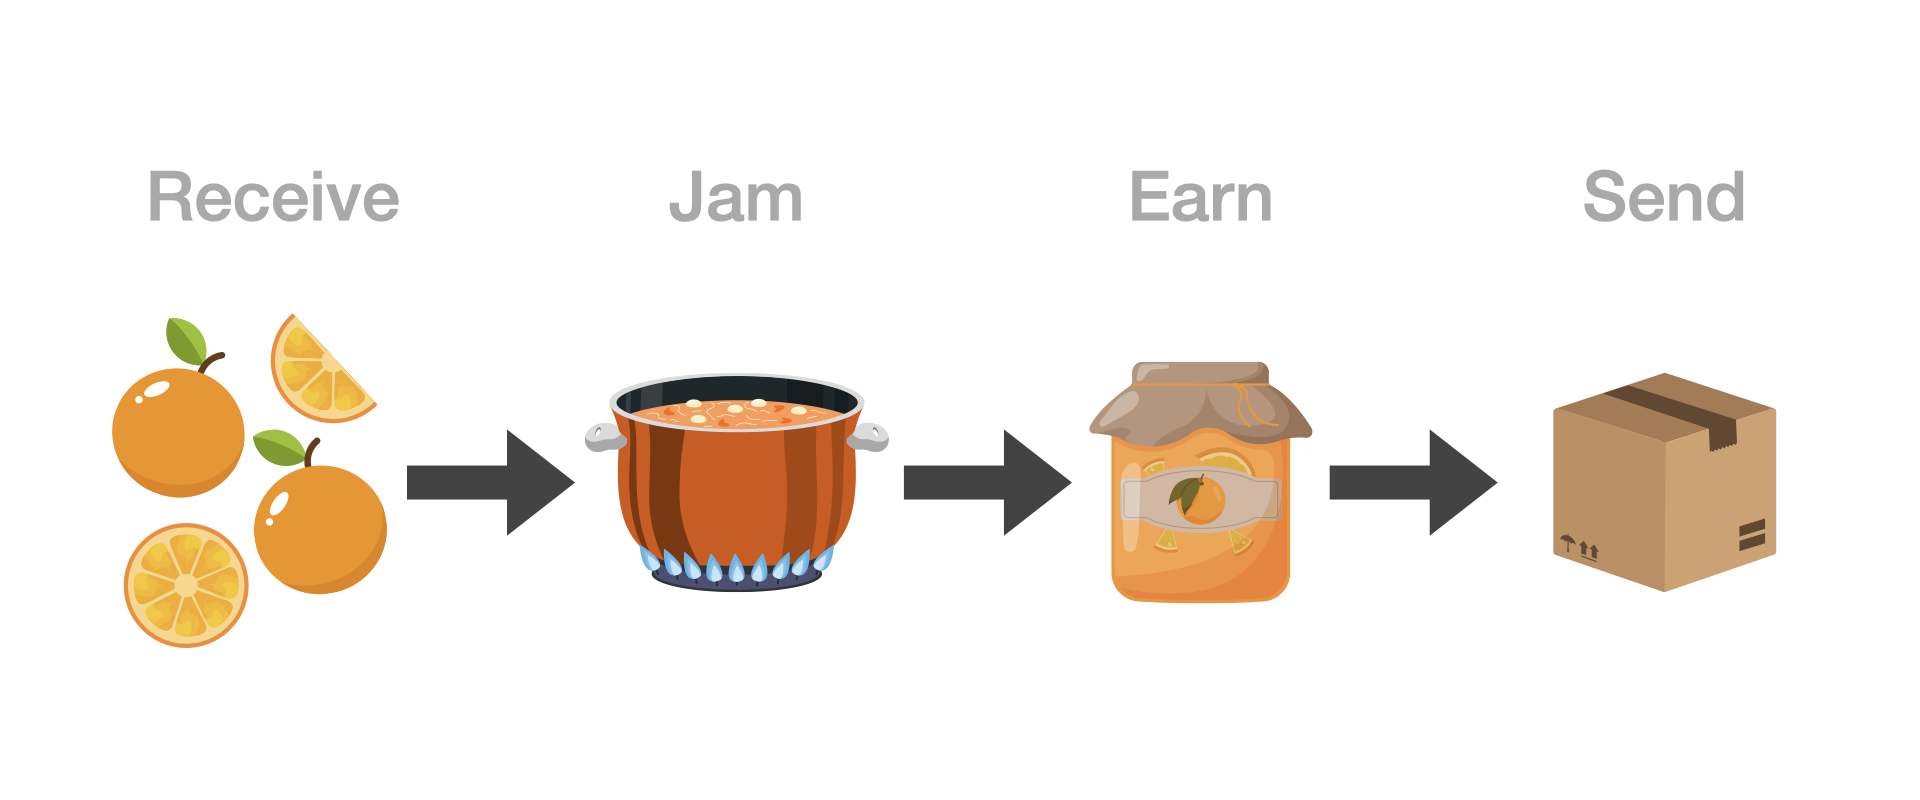
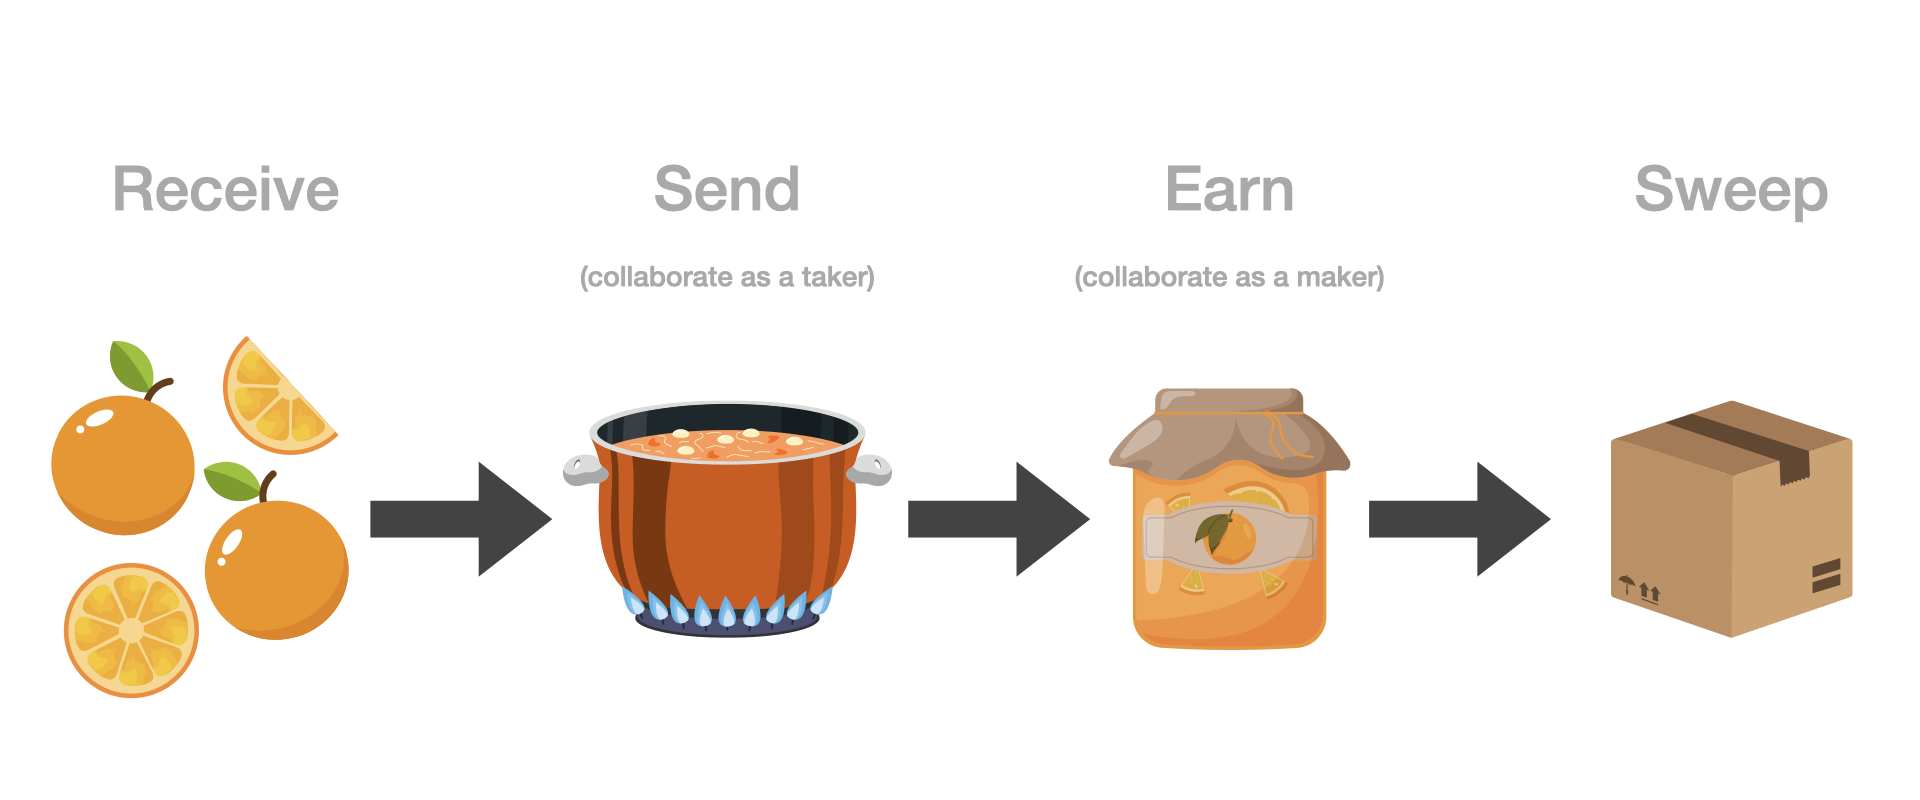
docs: update application flow (#12)
* feat: update jam flow visual

* feat: update order; rename 'Jam' to 'Sweep'

* feat: update send/earn/sweep

* fix: flow & wording

* feat: swap link order, link to FB page

diff --git a/docs/interface/00-cheatsheet.md b/docs/interface/00-cheatsheet.md
@@ -11,11 +11,12 @@ and less identifiable. You are free to offer your fruits to others so they can
 make jam more easily.
 
 Without the fruity metaphor: to increase the privacy and fungibility of your
-funds, you should use Jam as both a [market maker][maker] ('Earn' tab) and a
-[taker][taker] ('Jam' tab). Use a Jar's sweep functionality or the [Jam
-Scheduler][jam] to transfer funds out of Jam, e.g. to move all your funds to
-cold storage or to use them to open lightning channels. If you want to pay
-others for goods and services, use [send][send].
+funds—and thus your security overall—you should use Jam as both a market
+[maker][maker] ('Earn' tab) and a [taker][taker] ('Send' and 'Sweep' tabs). Use
+a Jar's sweep functionality or the [Scheduler][sweep] to transfer funds out of
+Jam, e.g. to move all your funds to cold storage or to use them to open
+lightning channels. If you want to pay others for goods and services, use
+[send][send].
 
 [utxo]: /glossary/#utxo
 [maker]: /glossary/#maker
@@ -24,9 +25,9 @@ others for goods and services, use [send][send].
 ## First Use
 
 1. [Receive][receive] sats to fund your wallet
-2. [Jam][jam] it up with the Jam scheduler
+2. [Send][send] a collaborative transaction to one of your jars
 3. [Earn][earn] sats by offering liquidity[^fnfb]
-4. [Send][send] a collaborative transaction
+4. [Sweep][sweep] your wallet using the scheduler
 5. Rinse and repeat!
 
 [:octicons-arrow-right-24: Receive][receive]
@@ -34,9 +35,9 @@ others for goods and services, use [send][send].
 [^fnfb]: Make sure to create a [fidelity bond][fb] to increase the chances of your offer being taken.
 
 [receive]: 01-receive.md
-[jam]: 02-jam.md
+[sweep]: 04-sweep.md
 [earn]: 03-earn.md
-[send]: 04-send.md
+[send]: 02-send.md
 [fb]: fidelity-bonds.md
 
 ## Things to Note

diff --git a/docs/glossary.md b/docs/glossary.md
@@ -247,7 +247,7 @@ Names*[^true-names] of participants.
 
 [^true-names]: Vernor Vinge, 1981, [True Names](https://bitcoin-resources.com/books/true-names)
 
-You can use the [Scheduler](/interface/02-jam) functionality to avoid doxxic
+You can use the [Scheduler](/interface/04-sweep) functionality to avoid doxxic
 change in Jam.
 
 ## E
@@ -300,12 +300,12 @@ collaborative transactions automatically via the [scheduler](#schedule).
 
 [:octicons-arrow-right-24: About][name]
 
-[:octicons-arrow-right-24: Jam Interface][jam]
+[:octicons-arrow-right-24: Jam Interface][sweep]
 
 [:octicons-arrow-right-24: jamapp.org][jamapp-org]
 
 [name]: about.md
-[jam]: interface/02-jam.md
+[sweep]: interface/04-sweep.md
 [jamapp-org]: https://jamapp.org
 
 ### Jar
@@ -434,7 +434,7 @@ tab][i/earn].
 
 [:octicons-arrow-right-24: The Taker Role][jm-taker]
 
-[i/earn]: interface/02-jam.md
+[i/earn]: interface/04-sweep.md
 [orderbook]: market/orderbook.md
 [jm-taker]: https://github.com/openoms/bitcoin-tutorials/blob/master/joinmarket/joinmarket_private_flow.md#the-taker-role
 

diff --git a/docs/interface/04-sweep.md b/docs/interface/04-sweep.md
@@ -1,0 +1,25 @@
+# Sweep
+
+Use the 'Sweep' tab to empty your wallet. The scheduler will execute a series of
+collaborative transactions with randomized parameters, which will send your
+funds to multiple destination addresses over time.
+
+![](../assets/interface/jam.png#only-dark)
+
+![](../assets/interface/jam-light.png#only-light)
+
+Once the scheduler is active you will see a green indicator light, which means
+that the scheduler service is running. The service will [take][taker] any
+matching offer automatically.
+
+[taker]: /glossary/#taker
+
+![](../assets/interface/jam-running.png#only-dark)
+
+![](../assets/interface/jam-running-light.png#only-light)
+
+You can stop the scheduler at any time.
+
+[:octicons-arrow-right-24: Cheatsheet][cs]
+
+[cs]: 00-cheatsheet.md

diff --git a/docs/market/fees.md b/docs/market/fees.md
@@ -21,7 +21,7 @@ Of course, you can offer liquidity yourself via the [Earn][earn] functionality, 
 
 ## Paying Maker Fees
 
-When doing a collaborative transaction via the [Send][send] or [Jam][jam] tabs,
+When doing a collaborative transaction via the [Send][send] or [Jam][sweep] tabs,
 you are taking liquidity offers from others, effectively becoming a [market
 taker][taker].
 
@@ -33,8 +33,8 @@ How much you will pay in maker fees depends on the fee market of the current off
 
 [orderbook]: /market/orderbook
 
-[jam]: /interface/02-jam
-[send]: /interface/04-send
+[sweep]: /interface/04-sweep
+[send]: /interface/02-send
 [taker]: /glossary/#taker
 
 ## Paying Mining Fees

diff --git a/docs/interface/01-receive.md b/docs/interface/01-receive.md
@@ -15,12 +15,12 @@ from someone else, or send funds from another wallet yourself.
     containers. Think of jars as different pockets in your wallet, or different
     identities. The default jar to receive funds is **Jar A**.
 
-Once you have funded your wallet, you can use the 'Jam' tab to schedule
-collaborative transactions.
+Once you have funded your wallet, you can use the 'Send' tab to do
+a collaborative transaction.
 
 [jars]: /glossary/#jar
 [address]: /glossary/#address
 
-[:octicons-arrow-right-24: Jam][jam]
+[:octicons-arrow-right-24: Send][send]
 
-[jam]: 02-jam.md
+[send]: 02-send.md

diff --git a/docs/interface/03-earn.md b/docs/interface/03-earn.md
@@ -19,12 +19,13 @@ absolute terms, e.g. as `250 sats`.
 When creating a relative offer, the fee that you are charging others is set in
 percentage terms, e.g. as `0.03%`.
 
-Make sure to create a Fidelity Bond to increase the chances of your offer being taken.
+Make sure to create a [Fidelity Bond][fb] to increase the chances of your offer being taken.
+
+[:octicons-arrow-right-24: Sweep][sweep]
 
 [:octicons-arrow-right-24: Fidelity Bonds][fb]
 
-[:octicons-arrow-right-24: Send][send]
 
-[send]: 04-send.md
+[sweep]: 04-sweep.md
 
 [fb]: fidelity-bonds.md

diff --git a/docs/interface/02-send.md b/docs/interface/02-send.md
@@ -1,0 +1,16 @@
+# Send
+
+Use the 'Send' tab to do a single collaborative transaction.
+
+![](../assets/interface/send.png#only-dark)
+
+![](../assets/interface/send-light.png#only-light)
+
+Use the 'Sweep' button in the amount field to empty a single jar, or use the
+[Sweep tab][sweep] to sweep all non-frozen funds of your wallet to external
+addresses.
+
+[:octicons-arrow-right-24: Earn][earn]
+
+[earn]: 03-earn.md
+[sweep]: 04-sweep.md
